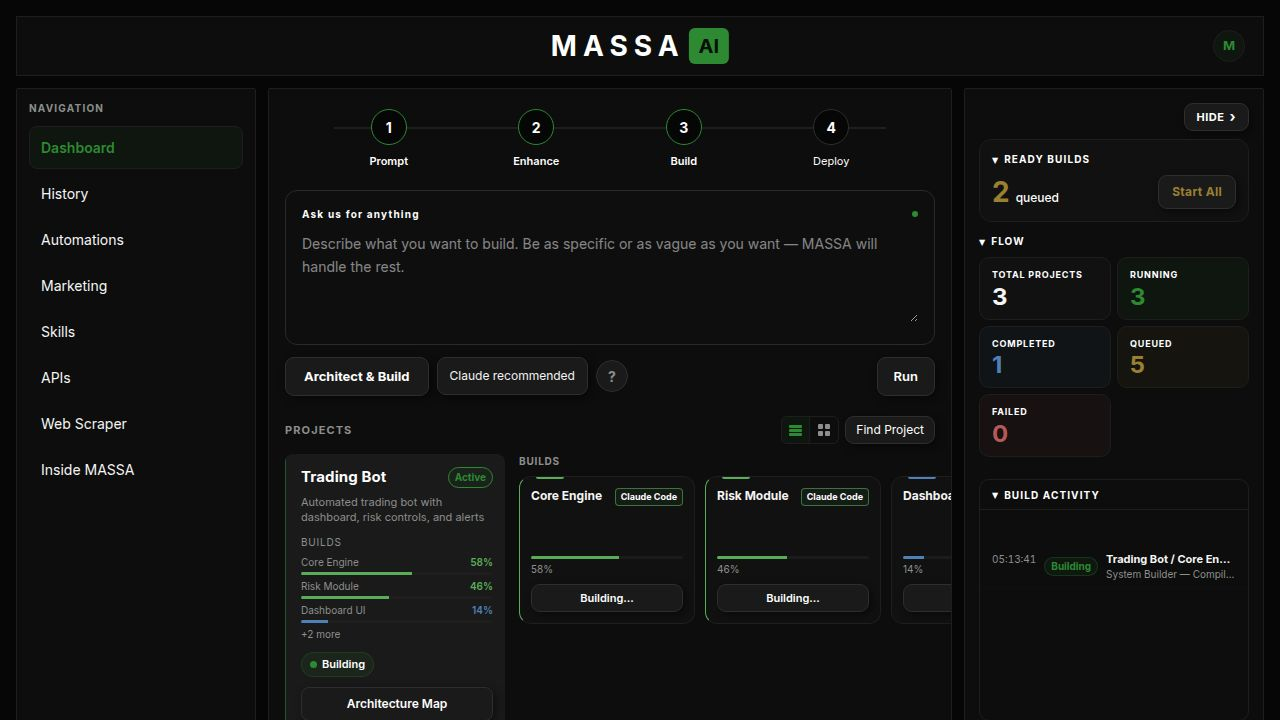
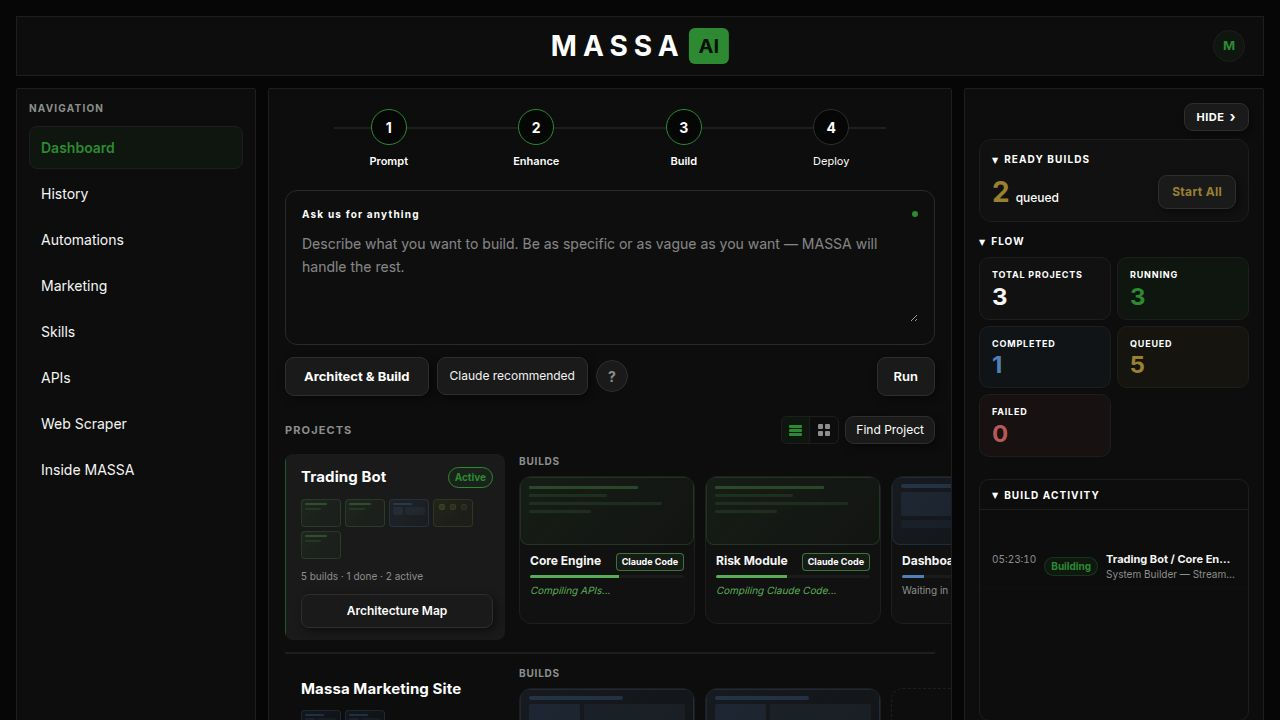
Merged changes from 0ee48kqt/main
Replit-Task-Id: c6620df4-a113-4f5c-858e-a761a6b8ec12

diff --git a/artifacts/massa/src/pages/Overview.tsx b/artifacts/massa/src/pages/Overview.tsx
@@ -79,13 +79,93 @@ function StatusBadge({ status, colors, size = 'sm' }: { status: Status; colors: 
       <span style={{ width: 7, height: 7, borderRadius: 999, background: '#9a8030', display: 'inline-block', flexShrink: 0 }} /> Pending
     </span>
   )
-  if (status === 'complete') return (
-    <span style={{ display: 'inline-flex', alignItems: 'center', gap: 5, fontSize: fs, color: '#5080b8', background: 'rgba(80,128,184,0.10)', border: '1px solid rgba(80,128,184,0.25)', padding: pad, borderRadius: 999, fontWeight: 600 }}>✓ Done</span>
-  )
+  if (status === 'complete') return null
   if (status === 'failed') return (
     <span style={{ display: 'inline-flex', alignItems: 'center', gap: 5, fontSize: fs, color: '#b85858', background: 'rgba(184,88,88,0.10)', border: '1px solid rgba(184,88,88,0.25)', padding: pad, borderRadius: 999, fontWeight: 600 }}>✕ Failed</span>
   )
   return <span style={{ fontSize: fs, color: '#6a6d6a', background: 'rgba(106,109,106,0.08)', border: '1px solid rgba(106,109,106,0.15)', padding: pad, borderRadius: 999, fontWeight: 600 }}>Idle</span>
+}
+
+function getBuildType(stack: string[], title: string): 'ui' | 'backend' | 'database' | 'automation' {
+  const t = title.toLowerCase()
+  if (t.includes('ui') || t.includes('dashboard') || t.includes('homepage') || t.includes('site') || stack.includes('Lovable') || stack.includes('Replit')) return 'ui'
+  if (t.includes('alert') || t.includes('scheduler') || t.includes('automation') || stack.includes('n8n')) return 'automation'
+  if (t.includes('data') || t.includes('pipeline') || t.includes('schema')) return 'database'
+  return 'backend'
+}
+
+function PreviewThumbnail({ buildType, sc, size = 'normal' }: { buildType: 'ui' | 'backend' | 'database' | 'automation'; sc: string; size?: 'normal' | 'mini' }) {
+  const h = size === 'mini' ? 28 : 68
+  const w = size === 'mini' ? 40 : '100%'
+  const base = { width: w, height: h, borderRadius: size === 'mini' ? 4 : 8, overflow: 'hidden' as const, position: 'relative' as const, flexShrink: 0 }
+
+  if (buildType === 'ui') return (
+    <div style={{ ...base, background: `linear-gradient(135deg, ${sc}18, ${sc}08)`, border: `1px solid ${sc}30` }}>
+      <div style={{ position: 'absolute', top: size === 'mini' ? 3 : 6, left: size === 'mini' ? 3 : 8, right: size === 'mini' ? 3 : 8 }}>
+        <div style={{ height: size === 'mini' ? 2 : 4, background: `${sc}40`, borderRadius: 2, marginBottom: size === 'mini' ? 2 : 4, width: '60%' }} />
+        <div style={{ display: 'flex', gap: size === 'mini' ? 2 : 4 }}>
+          <div style={{ flex: 1, height: size === 'mini' ? 8 : 24, background: `${sc}20`, borderRadius: 2 }} />
+          <div style={{ flex: 2, height: size === 'mini' ? 8 : 24, background: `${sc}15`, borderRadius: 2 }} />
+        </div>
+        {size !== 'mini' && <div style={{ height: 8, background: `${sc}12`, borderRadius: 2, marginTop: 4, width: '40%' }} />}
+      </div>
+    </div>
+  )
+
+  if (buildType === 'backend') return (
+    <div style={{ ...base, background: `linear-gradient(135deg, ${sc}14, ${sc}06)`, border: `1px solid ${sc}30` }}>
+      <div style={{ position: 'absolute', top: size === 'mini' ? 3 : 8, left: size === 'mini' ? 3 : 8, right: size === 'mini' ? 3 : 8 }}>
+        {[0.7, 0.5, 0.85, 0.4].slice(0, size === 'mini' ? 2 : 4).map((w, i) => (
+          <div key={i} style={{ height: size === 'mini' ? 2 : 3, background: `${sc}${i === 0 ? '50' : '25'}`, borderRadius: 1, marginBottom: size === 'mini' ? 3 : 5, width: `${w * 100}%` }} />
+        ))}
+      </div>
+    </div>
+  )
+
+  if (buildType === 'database') return (
+    <div style={{ ...base, background: `linear-gradient(135deg, ${sc}14, ${sc}06)`, border: `1px solid ${sc}30` }}>
+      <div style={{ position: 'absolute', top: size === 'mini' ? 4 : 10, left: '50%', transform: 'translateX(-50%)' }}>
+        {[0, 1, 2].slice(0, size === 'mini' ? 2 : 3).map(i => (
+          <div key={i} style={{ width: size === 'mini' ? 20 : 40, height: size === 'mini' ? 5 : 10, background: `${sc}${30 - i * 8}`, borderRadius: size === 'mini' ? 2 : 3, marginBottom: size === 'mini' ? 1 : 2, border: `1px solid ${sc}20` }} />
+        ))}
+      </div>
+    </div>
+  )
+
+  return (
+    <div style={{ ...base, background: `linear-gradient(135deg, ${sc}14, ${sc}06)`, border: `1px solid ${sc}30` }}>
+      <div style={{ position: 'absolute', top: size === 'mini' ? 4 : 10, left: size === 'mini' ? 5 : 12, right: size === 'mini' ? 5 : 12 }}>
+        <div style={{ display: 'flex', justifyContent: 'space-between', alignItems: 'center', marginBottom: size === 'mini' ? 3 : 8 }}>
+          {[0, 1, 2].map(i => (
+            <div key={i} style={{ width: size === 'mini' ? 6 : 14, height: size === 'mini' ? 6 : 14, borderRadius: size === 'mini' ? 2 : 4, background: `${sc}${35 - i * 10}`, border: `1px solid ${sc}20` }} />
+          ))}
+        </div>
+        {size !== 'mini' && (
+          <div style={{ display: 'flex', gap: 6, justifyContent: 'center' }}>
+            {[0, 1].map(i => (
+              <div key={i} style={{ width: 16, height: 1, background: `${sc}40` }} />
+            ))}
+          </div>
+        )}
+      </div>
+    </div>
+  )
+}
+
+function getInlineStatus(build: { id: string; status: Status; progress: number; title: string; stack: string[] }): string {
+  if (build.status === 'running') {
+    if (build.progress < 30) return `Analyzing ${build.title.toLowerCase()}...`
+    if (build.progress < 60) return `Compiling ${build.stack[build.stack.length - 1] || build.title}...`
+    if (build.progress < 85) return `Building ${build.title.toLowerCase()}...`
+    return `Deploying to Replit...`
+  }
+  if (build.status === 'complete') {
+    const n = (build.id.charCodeAt(0) % 5) + 2
+    return `${n} files generated`
+  }
+  if (build.status === 'failed') return 'Build failed'
+  if (build.status === 'queued') return 'Waiting in queue'
+  return 'Ready to build'
 }
 
 const KEYWORDS = ['async', 'function', 'await', 'const', 'let', 'if', 'return', 'export', 'import', 'from', 'throw', 'new', 'type', 'interface']
@@ -591,7 +671,6 @@ export function Overview() {
                 return counts
               })()
 
-              /* Shared build cards renderer: column=true → vertical stack (card view), column=false → horizontal scroll (row view) */
               const buildCards = (column: boolean, wrap = false) => (
                 <div style={{ display: 'flex', flexDirection: column ? 'column' : 'row', gap: 10, ...(column ? {} : wrap ? { flexWrap: 'wrap' } : { overflowX: 'auto', paddingBottom: 6 }) }}>
                   {project.builds.map((build) => {
@@ -602,50 +681,57 @@ export function Overview() {
                     const isComplete = build.status === 'complete'
                     const isDragging = draggedBuild?.buildId === build.id
                     const isDragOver = dragOverId === build.id && draggedBuild?.buildId !== build.id
+                    const bt = getBuildType(build.stack, build.title)
+                    const statusText = getInlineStatus(build)
 
                     return (
                       <div key={build.id} draggable onDragStart={() => handleDragStart(build.id, project.id)} onDragOver={e => handleDragOver(e, build.id)} onDrop={e => handleDrop(e, build.id, project.id)} onDragEnd={handleDragEnd}
-                        style={{ ...(column ? { width: '100%' } : { minWidth: 176, maxWidth: 176, flexShrink: 0 }), border: `1px solid ${isDragOver ? sc : isFailed ? '#ff6b6b' : c.border}`, borderLeft: isFailed ? '1px solid #ff6b6b' : isRunning ? `1px solid ${sc}` : `1px solid ${c.border}`, background: c.alt, borderRadius: 12, padding: '11px 11px', display: 'flex', flexDirection: column ? 'row' : 'column', justifyContent: 'space-between', alignItems: column ? 'center' : undefined, opacity: isDragging ? 0.4 : isComplete ? 0.75 : 1, position: 'relative', overflow: 'hidden', cursor: 'grab', transition: 'opacity 0.2s, border 0.2s' }}>
+                        onClick={() => setExpandedBuildId(build.id)}
+                        style={{ ...(column ? { width: '100%' } : { minWidth: 176, maxWidth: 176, flexShrink: 0 }), border: `1px solid ${isDragOver ? sc : isFailed ? '#ff6b6b' : isComplete ? `${sc}30` : c.border}`, background: c.alt, borderRadius: 12, padding: 0, display: 'flex', flexDirection: column ? 'row' : 'column', alignItems: column ? 'center' : undefined, opacity: isDragging ? 0.4 : isComplete ? 0.65 : 1, position: 'relative', overflow: 'hidden', cursor: 'pointer', transition: 'opacity 0.2s, border 0.2s' }}>
 
-                        {/* Skill color left pip (column) / top pip (row) */}
-                        {column
-                          ? <div style={{ position: 'absolute', top: 0, left: 0, bottom: 0, width: 2, background: sc, borderRadius: '12px 0 0 12px' }} />
-                          : <div style={{ position: 'absolute', top: 0, left: 16, width: 28, height: 2, background: sc, borderRadius: '0 0 3px 3px' }} />
-                        }
-
-                        {/* Title + skill badge */}
-                        <div style={{ flex: column ? 1 : undefined, paddingLeft: column ? 8 : 0 }}>
-                          <div style={{ display: 'flex', justifyContent: 'space-between', alignItems: 'flex-start', gap: 4, marginBottom: 5 }}>
-                            <div style={{ fontWeight: 700, fontSize: 12, lineHeight: 1.25 }}>{build.title}</div>
-                            <span style={{ fontSize: 9, color: '#ffffff', fontWeight: 700, border: `1px solid ${sc}99`, padding: '1px 5px', borderRadius: 4, background: `${sc}12`, flexShrink: 0 }}>{ps}</span>
+                        {isComplete && (
+                          <div style={{ position: 'absolute', top: column ? 6 : 6, right: 6, width: 16, height: 16, borderRadius: 999, background: `${sc}30`, display: 'flex', alignItems: 'center', justifyContent: 'center', zIndex: 2 }}>
+                            <span style={{ fontSize: 9, color: sc }}>✓</span>
                           </div>
-                        </div>
+                        )}
 
-                        {/* Progress + actions */}
-                        <div style={{ ...(column ? { display: 'flex', alignItems: 'center', gap: 12, minWidth: 180 } : {}) }}>
-                          {!column && (
-                            <>
-                              <div style={{ height: 3, background: isDark ? '#1b1b1b' : '#dfe8de', borderRadius: 999, overflow: 'hidden', marginBottom: 3 }}>
-                                <div style={{ width: `${build.progress}%`, height: '100%', background: sc, transition: 'width 0.6s ease' }} />
-                              </div>
-                              <div style={{ fontSize: 10, color: c.muted, marginBottom: 7 }}>{build.progress}%</div>
-                            </>
-                          )}
-                          {column && (
-                            <div style={{ display: 'flex', alignItems: 'center', gap: 8 }}>
-                              <div style={{ width: 80, height: 4, background: isDark ? '#1b1b1b' : '#dfe8de', borderRadius: 999, overflow: 'hidden' }}>
-                                <div style={{ width: `${build.progress}%`, height: '100%', background: sc, transition: 'width 0.6s ease' }} />
-                              </div>
-                              <span style={{ fontSize: 10, color: c.muted, minWidth: 28 }}>{build.progress}%</span>
+                        {column ? (
+                          <>
+                            <div style={{ width: 50, flexShrink: 0, padding: 8, position: 'relative' }}>
+                              <div style={{ position: 'absolute', top: 0, left: 0, bottom: 0, width: 2, background: sc, borderRadius: '12px 0 0 12px' }} />
+                              <PreviewThumbnail buildType={bt} sc={sc} size="mini" />
                             </div>
-                          )}
-                          <button onClick={(e) => { e.stopPropagation(); setExpandedBuildId(build.id) }}
-                            style={{ ...(column ? {} : { width: '100%' }), border: '1px solid #2e2e2e', background: '#1a1a1a', color: '#ffffff', padding: '5px 12px', borderRadius: 9, cursor: 'pointer', fontSize: 11, fontWeight: 600, whiteSpace: 'nowrap', boxShadow: '3px 3px 8px rgba(0,0,0,0.45)', transition: 'background 0.15s' }}
-                            onMouseEnter={e => e.currentTarget.style.background = '#242424'}
-                            onMouseLeave={e => e.currentTarget.style.background = '#1a1a1a'}>
-                            {isComplete ? 'View Build' : isFailed ? 'Failed' : isRunning ? (build.progress < 30 ? 'Thinking...' : build.progress < 80 ? 'Building...' : 'Deploying...') : build.status === 'queued' ? 'Queued' : 'Idle'}
-                          </button>
-                        </div>
+                            <div style={{ flex: 1, padding: '8px 10px 8px 4px', display: 'flex', alignItems: 'center', gap: 12 }}>
+                              <div style={{ flex: 1 }}>
+                                <div style={{ display: 'flex', alignItems: 'center', gap: 6, marginBottom: 2 }}>
+                                  <div style={{ fontWeight: 700, fontSize: 12, lineHeight: 1.25 }}>{build.title}</div>
+                                  <span style={{ fontSize: 9, color: '#ffffff', fontWeight: 700, border: `1px solid ${sc}99`, padding: '1px 5px', borderRadius: 4, background: `${sc}12`, flexShrink: 0 }}>{ps}</span>
+                                </div>
+                                <div style={{ fontSize: 10, color: isRunning ? sc : isFailed ? '#b85858' : c.muted, fontStyle: isRunning ? 'italic' : 'normal' }}>{statusText}</div>
+                              </div>
+                              <div style={{ display: 'flex', alignItems: 'center', gap: 8, minWidth: 120 }}>
+                                <div style={{ width: 80, height: 3, background: isDark ? '#1b1b1b' : '#dfe8de', borderRadius: 999, overflow: 'hidden' }}>
+                                  <div style={{ width: `${build.progress}%`, height: '100%', background: sc, transition: 'width 0.6s ease' }} />
+                                </div>
+                                <span style={{ fontSize: 10, color: c.muted, minWidth: 28 }}>{build.progress}%</span>
+                              </div>
+                            </div>
+                          </>
+                        ) : (
+                          <>
+                            <PreviewThumbnail buildType={bt} sc={sc} />
+                            <div style={{ padding: '8px 10px 10px' }}>
+                              <div style={{ display: 'flex', justifyContent: 'space-between', alignItems: 'flex-start', gap: 4, marginBottom: 4 }}>
+                                <div style={{ fontWeight: 700, fontSize: 12, lineHeight: 1.25 }}>{build.title}</div>
+                                <span style={{ fontSize: 9, color: '#ffffff', fontWeight: 700, border: `1px solid ${sc}99`, padding: '1px 5px', borderRadius: 4, background: `${sc}12`, flexShrink: 0 }}>{ps}</span>
+                              </div>
+                              <div style={{ height: 3, background: isDark ? '#1b1b1b' : '#dfe8de', borderRadius: 999, overflow: 'hidden', marginBottom: 6 }}>
+                                <div style={{ width: `${build.progress}%`, height: '100%', background: sc, transition: 'width 0.6s ease' }} />
+                              </div>
+                              <div style={{ fontSize: 10, color: isRunning ? sc : isFailed ? '#b85858' : c.muted, fontStyle: isRunning ? 'italic' : 'normal', lineHeight: 1.3, minHeight: 14 }}>{statusText}</div>
+                            </div>
+                          </>
+                        )}
                       </div>
                     )
                   })}
@@ -670,35 +756,24 @@ export function Overview() {
                       onMouseLeave={() => setHoveredProjectId(null)}
                       style={{ display: 'grid', gridTemplateColumns: '220px 1fr', gap: 14, alignItems: 'start', position: 'relative' }}>
 
-                      {/* Project info panel */}
                       <div onClick={() => setSelectedProjectId(project.id)} style={{ background: isSel ? c.blackGreen : 'transparent', borderRadius: 8, padding: '12px 12px 12px 0', cursor: 'pointer', position: 'relative', overflow: 'hidden' }}>
                         <div style={{ position: 'absolute', top: 0, left: 0, bottom: 0, width: 1, background: isSel ? `${c.green}88` : 'transparent', borderRadius: '8px 0 0 8px' }} />
                         <div style={{ paddingLeft: 16 }}>
-                          <div style={{ display: 'flex', alignItems: 'center', justifyContent: 'space-between', marginBottom: 6 }}>
+                          <div style={{ display: 'flex', alignItems: 'center', justifyContent: 'space-between', marginBottom: 10 }}>
                             <div style={{ fontWeight: 700, fontSize: 15, letterSpacing: 0.1, color: '#ffffff' }}>{project.name}</div>
                           </div>
-                          <div style={{ color: c.muted, fontSize: 11, marginBottom: 10, lineHeight: 1.4 }}>{project.goal}</div>
 
-                          {/* Mini build preview */}
-                          <div style={{ marginBottom: 10 }}>
-                            <div style={{ fontSize: 10, color: c.muted, marginBottom: 5, letterSpacing: 0.8 }}>BUILDS</div>
-                            <div style={{ display: 'flex', flexDirection: 'column', gap: 4 }}>
-                              {project.builds.slice(0, 3).map(b => {
-                                const sc = skillColor(b.stack)
-                                return (
-                                  <div key={b.id}>
-                                    <div style={{ display: 'flex', justifyContent: 'space-between', marginBottom: 2 }}>
-                                      <span style={{ fontSize: 10, color: c.muted }}>{b.title}</span>
-                                      <span style={{ fontSize: 10, color: sc, fontWeight: 600 }}>{b.progress}%</span>
-                                    </div>
-                                    <div style={{ height: 3, background: isDark ? '#1e1e1e' : '#ddd', borderRadius: 99, overflow: 'hidden' }}>
-                                      <div style={{ width: `${b.progress}%`, height: '100%', background: sc, transition: 'width 0.6s ease' }} />
-                                    </div>
-                                  </div>
-                                )
-                              })}
-                              {project.builds.length > 3 && <div style={{ fontSize: 10, color: c.muted }}>+{project.builds.length - 3} more</div>}
-                            </div>
+                          <div style={{ display: 'flex', gap: 4, marginBottom: 10, flexWrap: 'wrap' }}>
+                            {project.builds.slice(0, 5).map(b => {
+                              const sc = skillColor(b.stack)
+                              const bt = getBuildType(b.stack, b.title)
+                              return <PreviewThumbnail key={b.id} buildType={bt} sc={sc} size="mini" />
+                            })}
+                            {project.builds.length > 5 && <div style={{ width: 40, height: 28, borderRadius: 4, background: `${c.border}`, display: 'flex', alignItems: 'center', justifyContent: 'center', fontSize: 9, color: c.muted, fontWeight: 600 }}>+{project.builds.length - 5}</div>}
+                          </div>
+
+                          <div style={{ fontSize: 10, color: c.muted, marginBottom: 10 }}>
+                            {project.builds.length} builds · {project.builds.filter(b => b.status === 'complete').length} done · {project.builds.filter(b => b.status === 'running').length} active
                           </div>
 
                           <button onClick={(e) => { e.stopPropagation(); setExpandedProject(expandedProject === project.id ? null : project.id) }}
@@ -726,10 +801,11 @@ export function Overview() {
                       {/* Left accent */}
                       <div style={{ position: 'absolute', top: 0, left: 0, bottom: 0, width: 2, background: isSel ? c.green : 'transparent', borderRadius: '12px 0 0 12px' }} />
 
-                      {/* Card header */}
-                      <div style={{ display: 'flex', alignItems: 'center', justifyContent: 'space-between', marginBottom: 6 }}>
+                      <div style={{ display: 'flex', alignItems: 'center', justifyContent: 'space-between', marginBottom: 10 }}>
                         <div style={{ display: 'flex', alignItems: 'center', gap: 10 }}>
                           <div style={{ fontWeight: 700, fontSize: 16, letterSpacing: 0.1, color: '#ffffff' }}>{project.name}</div>
+                          {isSel && <span style={{ fontSize: 10, fontWeight: 700, color: c.green, background: c.greenSoft, border: `1px solid ${c.green}`, padding: '2px 6px', borderRadius: 999 }}>Active</span>}
+                          <span style={{ fontSize: 10, color: c.muted }}>{project.builds.length} builds · {project.builds.filter(b => b.status === 'complete').length} done</span>
                         </div>
                         <button onClick={(e) => { e.stopPropagation(); setExpandedProject(expandedProject === project.id ? null : project.id) }}
                           onMouseEnter={() => setHoveredArchBtn(project.id + '-card')}
@@ -738,11 +814,6 @@ export function Overview() {
                           {expandedProject === project.id ? 'Close Map' : 'Architecture Map'}
                         </button>
                       </div>
-
-                      <div style={{ color: c.muted, fontSize: 11, marginBottom: 14, lineHeight: 1.4 }}>{project.goal}</div>
-
-                      {/* Build cards — wrapping grid */}
-                      <div style={{ fontSize: 10, color: c.muted, fontWeight: 700, letterSpacing: 0.8, marginBottom: 8 }}>BUILDS</div>
                       {buildCards(false, true)}
                     </div>
                   )}
@@ -1063,10 +1134,13 @@ export function Overview() {
                     <div key={build.id} style={{ display: 'flex', flexDirection: 'column', alignItems: 'center' }}>
                       {/* Vertical line up */}
                       <div style={{ width: 2, height: 20, background: c.border }} />
-                      <div style={{ border: `1px solid ${sc}66`, borderTop: `1px solid ${sc}`, background: isDark ? `${sc}0a` : `${sc}08`, borderRadius: 12, padding: 14, width: 160, cursor: 'pointer' }} onClick={() => { setExpandedBuildId(build.id); setExpandedProject(null) }}>
+                      <div style={{ border: `1px solid ${build.status === 'complete' ? `${sc}30` : build.status === 'failed' ? '#ff6b6b66' : `${sc}66`}`, borderTop: `2px solid ${build.status === 'complete' ? `${sc}60` : build.status === 'failed' ? '#ff6b6b' : sc}`, background: isDark ? `${sc}0a` : `${sc}08`, borderRadius: 12, padding: 14, width: 160, cursor: 'pointer', opacity: build.status === 'complete' ? 0.7 : 1, transition: 'opacity 0.2s' }} onClick={() => { setExpandedBuildId(build.id); setExpandedProject(null) }}>
                         <div style={{ display: 'flex', justifyContent: 'space-between', alignItems: 'center', marginBottom: 6 }}>
                           <span style={{ fontSize: 11, color: '#ffffff', fontWeight: 700 }}>{ps}</span>
-                          <StatusBadge status={build.status} colors={c} />
+                          {build.status === 'running' && <span style={{ width: 7, height: 7, borderRadius: 999, background: sc, display: 'inline-block', animation: 'pulse 1.5s infinite' }} />}
+                          {build.status === 'complete' && <span style={{ fontSize: 10, color: sc }}>✓</span>}
+                          {build.status === 'failed' && <span style={{ fontSize: 10, color: '#b85858' }}>✕</span>}
+                          {build.status === 'queued' && <span style={{ width: 7, height: 7, borderRadius: 999, background: '#9a8030', display: 'inline-block', opacity: 0.6 }} />}
                         </div>
                         <div style={{ fontWeight: 700, fontSize: 13, marginBottom: 4 }}>{build.title}</div>
                         <div style={{ fontSize: 11, color: c.muted, marginBottom: 8, lineHeight: 1.4 }}>{build.summary}</div>
@@ -1115,7 +1189,7 @@ export function Overview() {
                     <div>
                       <div style={{ display: 'flex', alignItems: 'center', gap: 10, marginBottom: 4 }}>
                         <div style={{ fontWeight: 800, fontSize: 22 }}>{expandedBuild.build.title}</div>
-                        <StatusBadge status={expandedBuild.build.status} colors={c} size="lg" />
+                        {expandedBuild.build.status !== 'complete' && <StatusBadge status={expandedBuild.build.status} colors={c} size="lg" />}
                         <span style={{ fontSize: 11, color: '#ffffff', fontWeight: 700, border: `1px solid ${sc}44`, padding: '2px 7px', borderRadius: 6, background: `${sc}14` }}>{ps}</span>
                       </div>
                       <div style={{ fontSize: 13, color: c.muted }}>{expandedBuild.project.name}</div>

diff --git a/artifacts/massa/src/components/ExecutionCard.tsx b/artifacts/massa/src/components/ExecutionCard.tsx
@@ -33,9 +33,9 @@ function StatusBadge({ status }: StatusBadgeProps) {
       icon: <Clock className="w-3 h-3" />,
     },
     completed: {
-      label: "Completed",
-      className: "bg-blue-500/10 text-blue-400 border-blue-500/20",
-      icon: <CheckCircle2 className="w-3 h-3" />,
+      label: "",
+      className: "hidden",
+      icon: null,
     },
     failed: {
       label: "Failed",
@@ -96,8 +96,13 @@ interface ExecutionCardProps {
 export function ExecutionCard({ card }: ExecutionCardProps) {
   const [expanded, setExpanded] = useState(false);
 
+  const isCompleted = card.status === "completed";
+
   return (
-    <div className="border border-border rounded-lg bg-card overflow-hidden">
+    <div className={cn(
+      "border rounded-lg bg-card overflow-hidden transition-opacity duration-200",
+      isCompleted ? "border-blue-500/20 opacity-70" : "border-border"
+    )}>
       <div className="px-4 py-3">
         <div className="flex items-start justify-between gap-3">
           <div className="flex-1 min-w-0">
@@ -105,7 +110,11 @@ export function ExecutionCard({ card }: ExecutionCardProps) {
               <h3 className="text-sm font-semibold text-foreground truncate">
                 {card.title}
               </h3>
-              <StatusBadge status={card.status} />
+              {isCompleted ? (
+                <CheckCircle2 className="w-3.5 h-3.5 text-blue-400/60 shrink-0" />
+              ) : (
+                <StatusBadge status={card.status} />
+              )}
               {card.startedAt && (
                 <span className="text-[10px] text-muted-foreground ml-auto shrink-0">
                   {card.status === "queued" ? "Queued" : `Started ${card.startedAt}`}